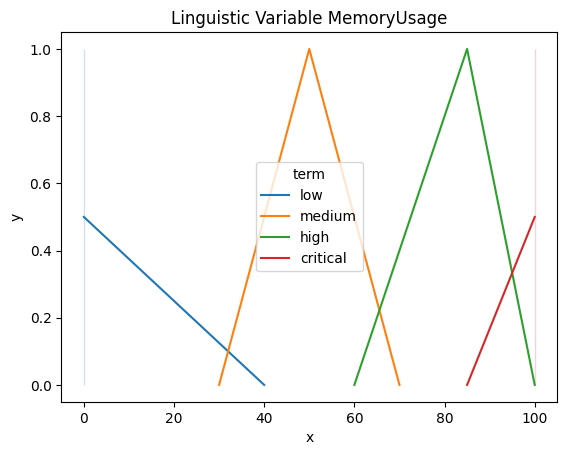
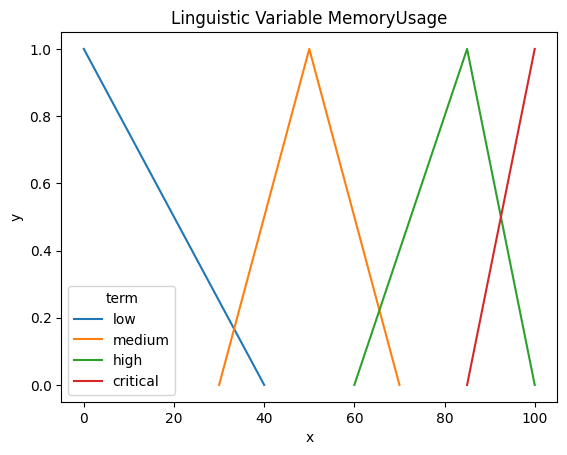
Corrected triangular bug

diff --git a/fuzzy/visualization/fuzzy_system_to_dataframe.py b/fuzzy/visualization/fuzzy_system_to_dataframe.py
@@ -22,23 +22,45 @@ def fuzzy_system_to_dataframe(FS: FuzzySystem) -> pd.DataFrame:
             # Fuzzy set is Triangular
             if isinstance(fs._funpointer, Triangular_MF):
 
-                vis['x'].append(fs._funpointer._a)
-                vis['y'].append(0)
+                if fs._funpointer._a == fs._funpointer._b:
+                    vis['x'].append(fs._funpointer._a)
+                    vis['y'].append(1)
 
-                vis['x'].append(fs._funpointer._b)
-                vis['y'].append(1.0)
+                    vis['x'].append(fs._funpointer._c)
+                    vis['y'].append(0)
 
-                vis['x'].append(fs._funpointer._c)
-                vis['y'].append(0)
+                    for _ in range(2):
+                        vis['term'].append(fs._term)
+                        vis['linguistic_var'].append(key)
 
-                vis['term'].append(fs._term)
-                vis['linguistic_var'].append(key)
+                elif fs._funpointer._b == fs._funpointer._c:
+                    vis['x'].append(fs._funpointer._a)
+                    vis['y'].append(0)
 
-                vis['term'].append(fs._term)
-                vis['linguistic_var'].append(key)
+                    vis['x'].append(fs._funpointer._c)
+                    vis['y'].append(1)
 
-                vis['term'].append(fs._term)
-                vis['linguistic_var'].append(key)
+                    for _ in range(2):
+                        vis['term'].append(fs._term)
+                        vis['linguistic_var'].append(key)
+                else:
+                    vis['x'].append(fs._funpointer._a)
+                    vis['y'].append(0)
+
+                    vis['x'].append(fs._funpointer._b)
+                    vis['y'].append(1.0)
+
+                    vis['x'].append(fs._funpointer._c)
+                    vis['y'].append(0)
+
+                    vis['term'].append(fs._term)
+                    vis['linguistic_var'].append(key)
+
+                    vis['term'].append(fs._term)
+                    vis['linguistic_var'].append(key)
+
+                    vis['term'].append(fs._term)
+                    vis['linguistic_var'].append(key)
 
             # Fuzzy set is Gaussian
             if isinstance(fs._funpointer, Gaussian_MF):
